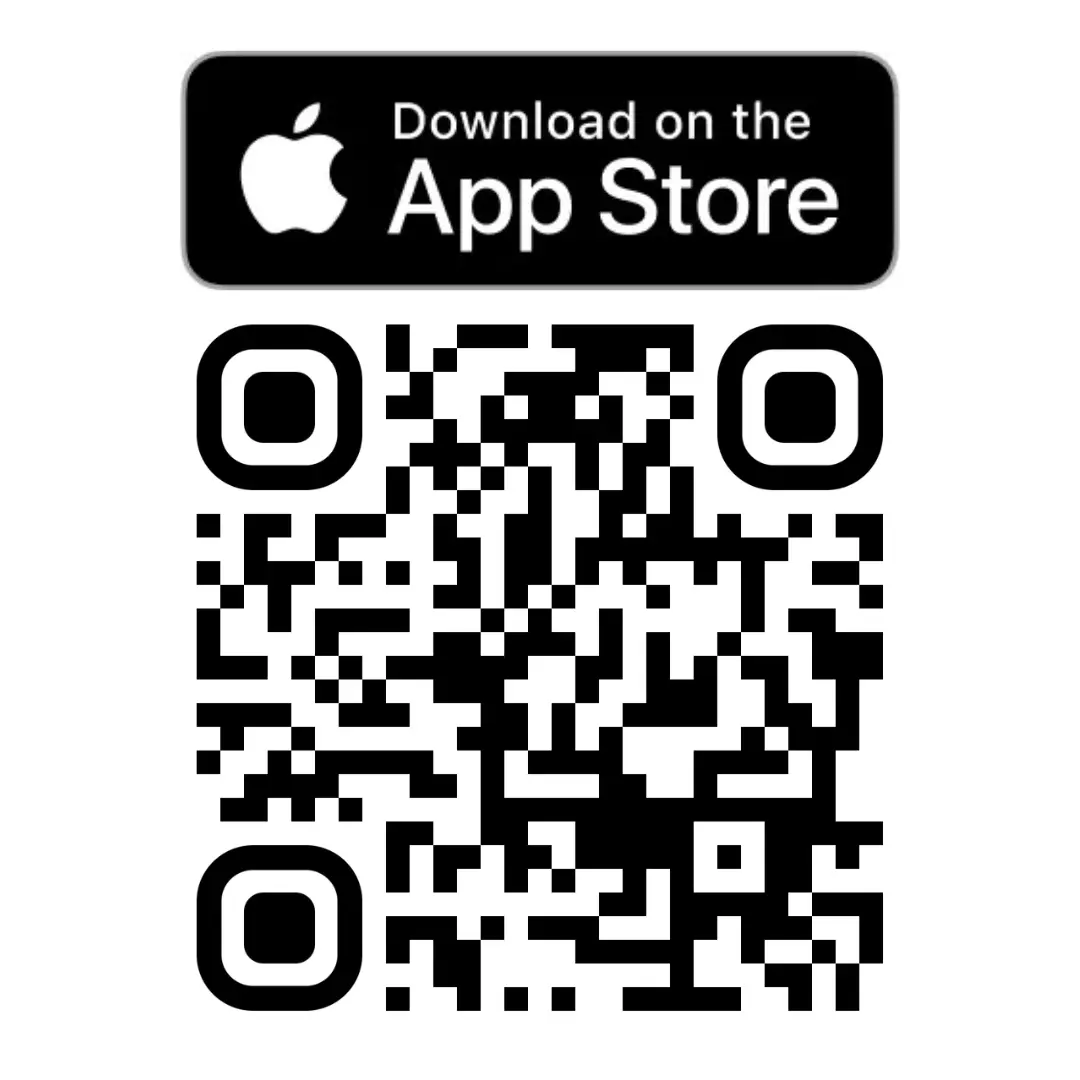
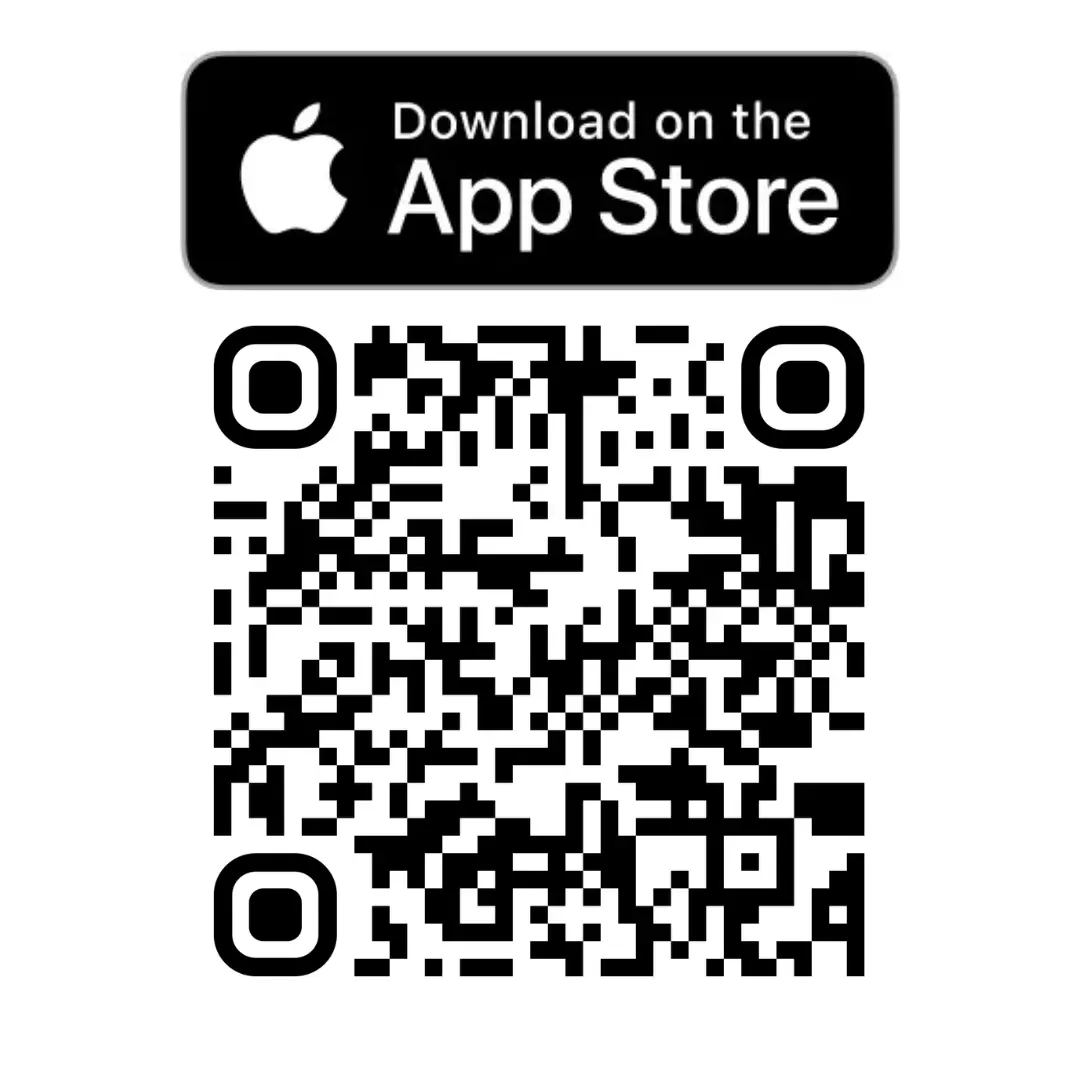
new store QR

Changed region(s): [[0.1833, 0.275, 0.825, 0.9472]]

diff --git a/it/app.html b/it/app.html
@@ -128,8 +128,6 @@
                 </div>
                 <div class="app-content">
                     <h2>L'app di StudyBuddy è qui.</h2>
-                    <p>Accedi ai test dai link in basso.</p>
-                    <p>ATTENZIONE: per gli utenti Apple, è necessario installare TestFlight per accedere al test!</p>
                     <p>Traccia il tuo tempo, mantieni la concentrazione e trova nuovi compagni di studio nella tua università.</p>
                     <p>Che aspetti? Dai una svolta alla tua vita universitaria da adesso!</p>
                     <h3>Scarica l'app <span role="img" aria-label="mano che indica verso il basso">👇</span></h3>
@@ -138,7 +136,7 @@
                         <a href="https://play.google.com/store/apps/details?id=eu.studybuddyit.studybuddy&hl=it" class="store-btn play-store">
                             <img alt="Get it on Google Play" src="/imgs/playstore.webp"/>
                         </a>
-                        <a href="https://testflight.apple.com/join/pcMHZHeJ" class="store-btn app-store">
+                        <a href="https://apps.apple.com/us/app/studybuddy-universit%C3%A0/id6670455793" class="store-btn app-store">
                             <img alt="Download on the App Store" src="/imgs/appstore.webp"/>
                         </a>
                     </div>
@@ -146,7 +144,7 @@
                         <a href="https://play.google.com/store/apps/details?id=eu.studybuddyit.studybuddy&hl=it" class="store-qr-link play-store">
                             <img alt="Get it on Google Play" src="/imgs/playstoreQR.webp"/>
                         </a>
-                        <a href="https://testflight.apple.com/join/pcMHZHeJ" class="store-qr-link app-store">
+                        <a href="https://apps.apple.com/us/app/studybuddy-universit%C3%A0/id6670455793" class="store-qr-link app-store">
                             <img alt="Download on the App Store" src="/imgs/appstoreQR.webp"/>
                         </a>
                     </div>
